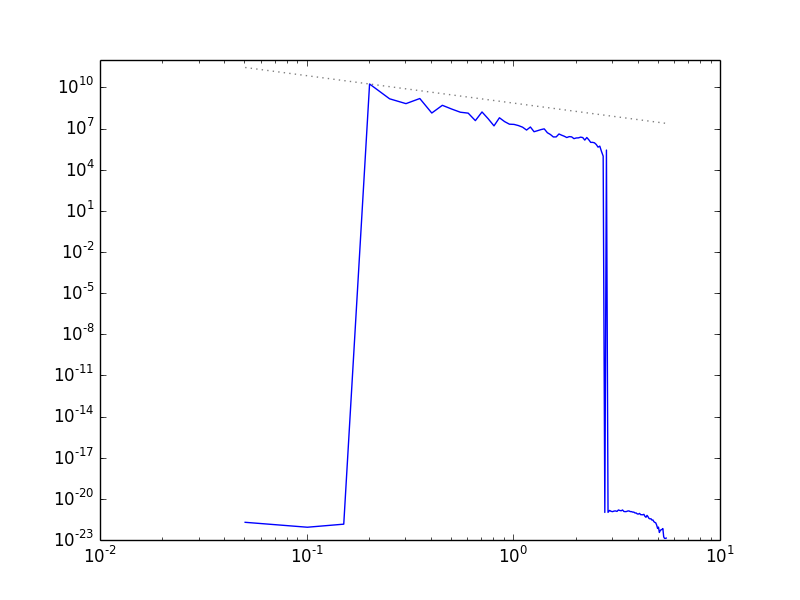
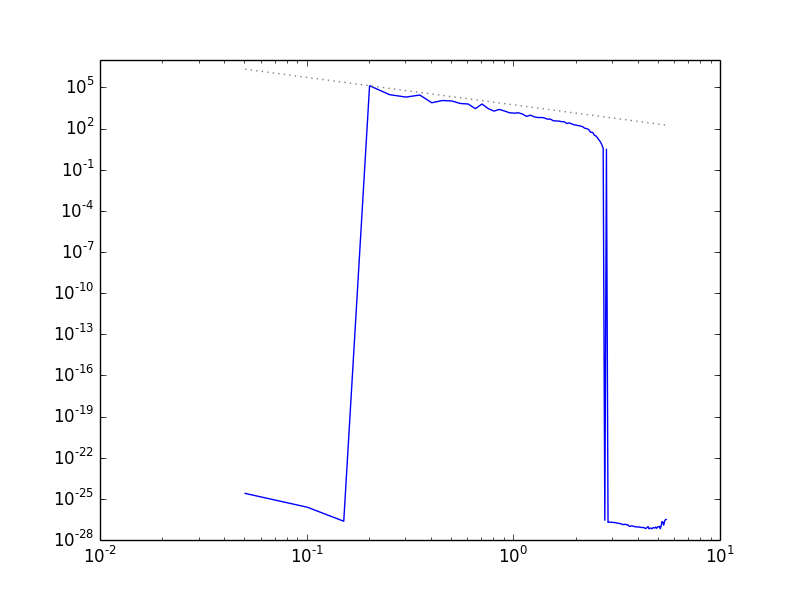
fix the amplitudes

diff --git a/ps.py b/ps.py
@@ -65,7 +65,7 @@ for m in range(1,modes+1):
             ii2 = m**2 + n**2 + p**2
 
             k = np.sqrt(k_x**2 + k_y**2 + k_z**2)
-            A = A_0*k**index/weights[ii2]
+            A = np.sqrt(A_0*k**index/weights[ii2])
             
             phi += A*np.sin(2.0*np.pi*k_x*x3d + 
                             2.0*np.pi*k_y*y3d + 
@@ -190,8 +190,7 @@ ncount = np.bincount(whichbin)
 E_spectrum = np.zeros(len(ncount)-1, dtype=np.float64)
 
 
-# unresolved:  should I normalize by ncount[n]?  Interestingly, plotting
-# the spectrum of sum(|phi_hat(n)|)/ncount(n) gives the best slope.
+# unresolved:  should I normalize by ncount[n]?  
 
 for n in range(len(ncount)):
     if not ncount[n] == 0: 
